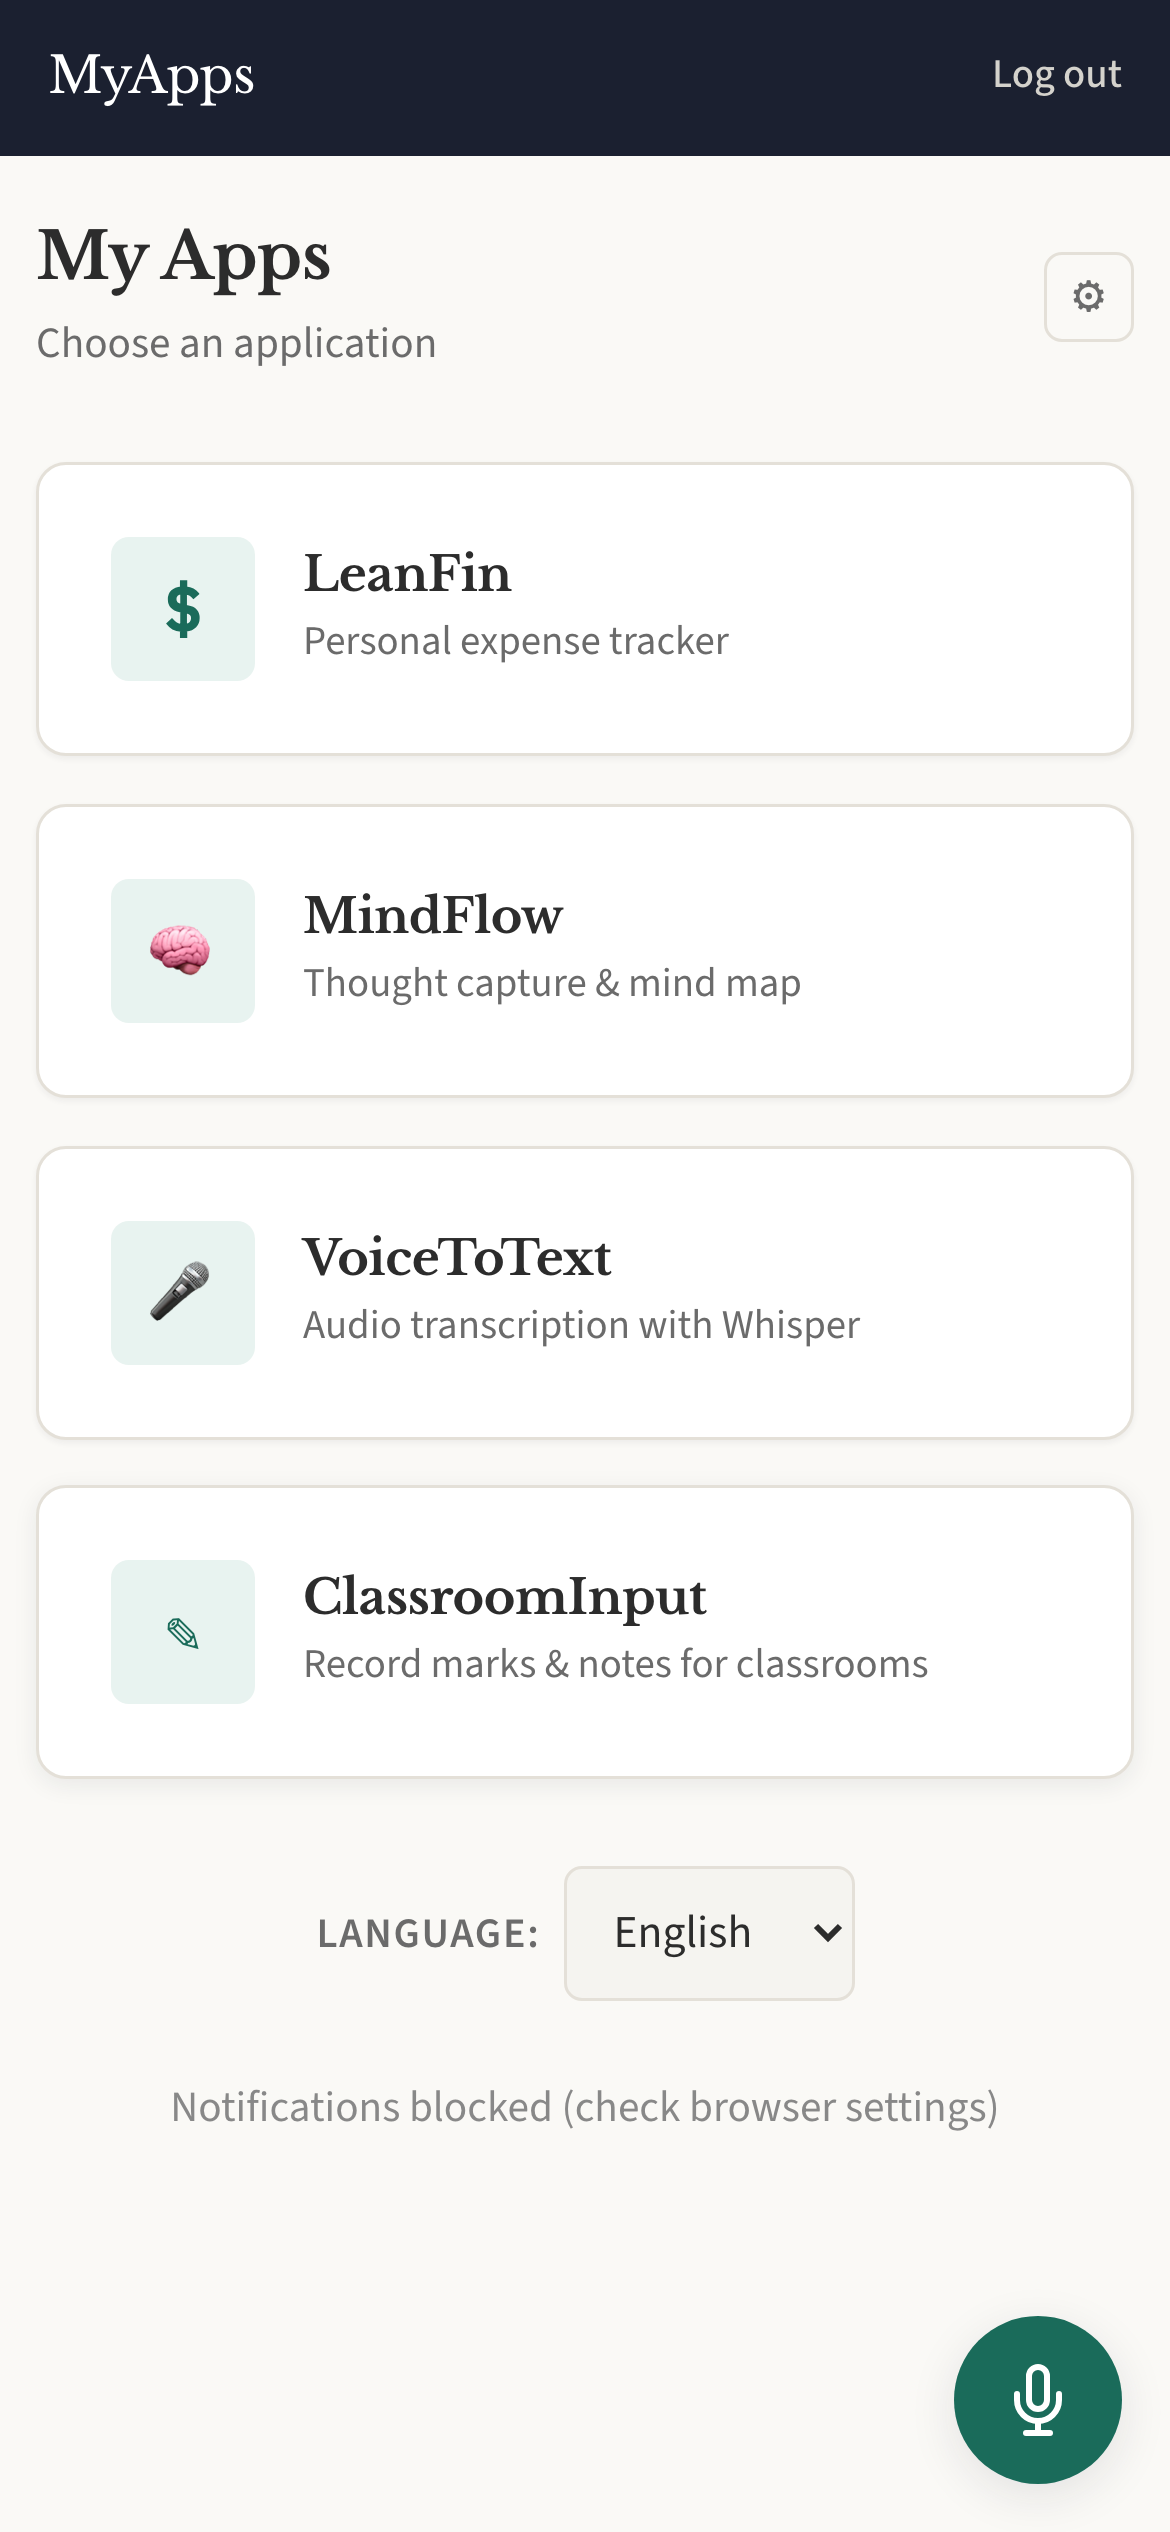
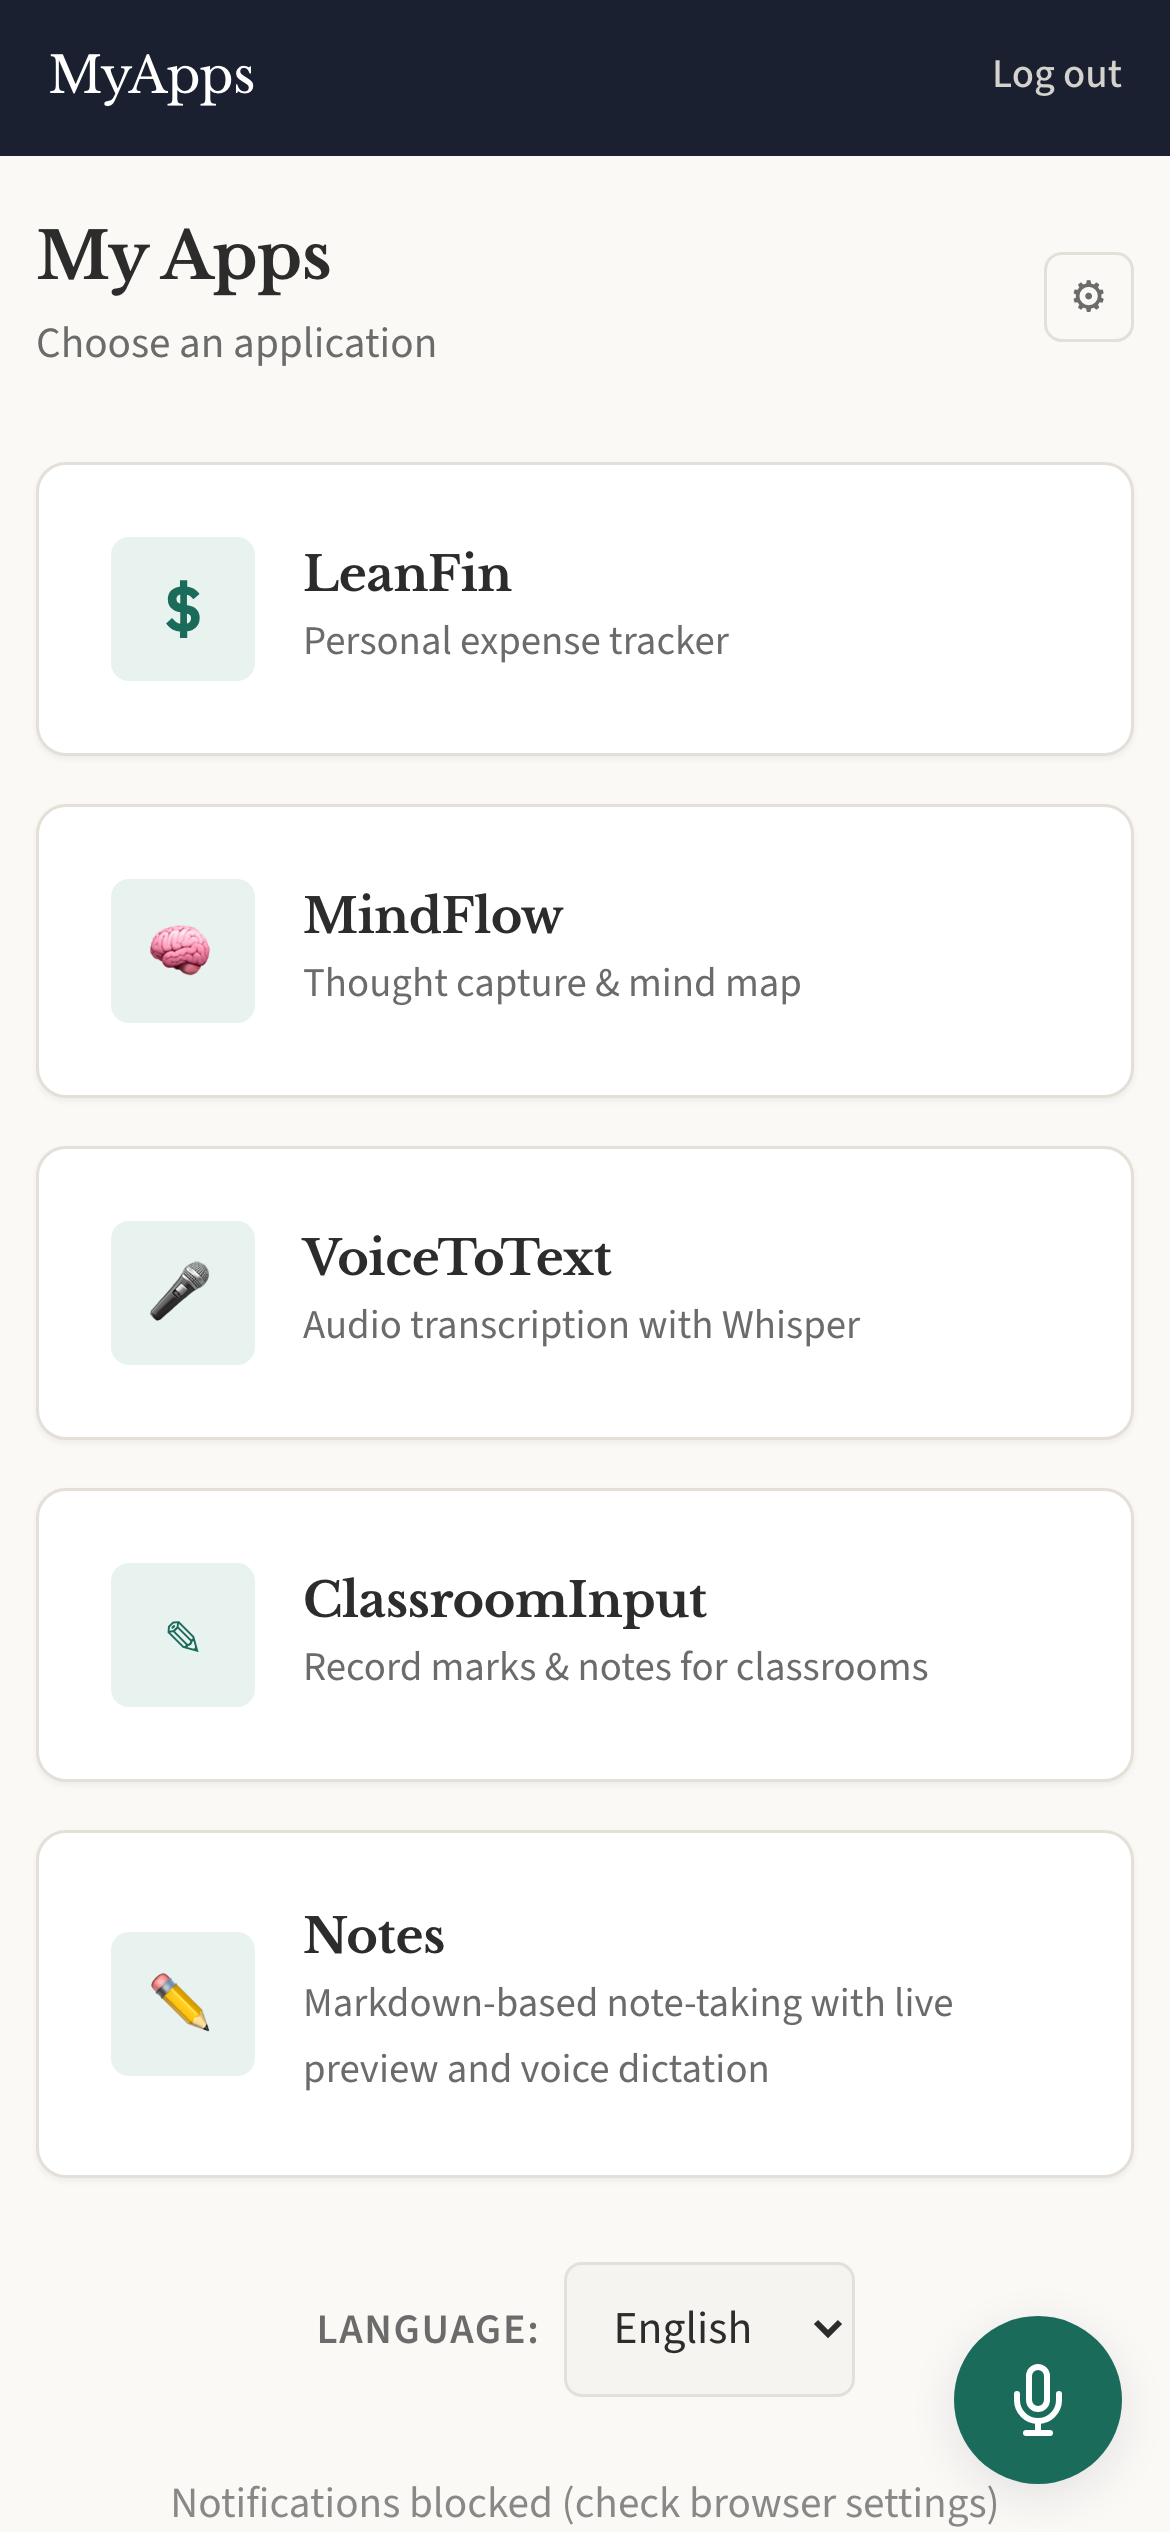
[FEAT-51] Add Notes screenshots to Playwright and auto-update finish-development workflow (#59)

diff --git a/scripts/screenshots.ts b/scripts/screenshots.ts
@@ -89,5 +89,17 @@ test.describe("README screenshots", () => {
 
     await page.goto(`${BASE_URL}/classroom/classrooms`);
     await snap(page, "classroom-classrooms");
+
+    // ── Notes ──
+    await page.goto(`${BASE_URL}/notes`);
+    await snap(page, "notes-list");
+
+    // Open the first note for editing (click the first note link).
+    const firstNote = page.locator('a[href^="/notes/"]').first();
+    if (await firstNote.isVisible()) {
+      await firstNote.click();
+      await page.waitForTimeout(800); // Wait for editor to initialize.
+      await snap(page, "notes-editor");
+    }
   });
 });

diff --git a/.claude/commands/finish-development.md b/.claude/commands/finish-development.md
@@ -35,9 +35,22 @@ git merge origin/main
 
 If there are merge conflicts, resolve them, then commit the merge. If the merge is clean, proceed.
 
-## 6. Frontend tests
+## 6. Frontend tests & screenshots
 
-If any commits on this branch (compared to `main`) touch frontend code (routes, handlers, HTML templates, or CSS classes used in assertions), run the **frontend-tester agent** (`.claude/agents/frontend-tester.md`) to generate or update integration tests for the changed routes. Commit any new or updated tests with message "Add/update frontend tests for [feature]". Include the co-author trailer. If no frontend code was changed, skip this step.
+If any commits on this branch (compared to `main`) touch frontend code (routes, handlers, HTML templates, or CSS classes used in assertions):
+
+1. **Integration tests**: Run the **frontend-tester agent** (`.claude/agents/frontend-tester.md`) to generate or update integration tests for the changed routes.
+
+2. **Screenshots**: Review `scripts/screenshots.ts` and check whether the Playwright script needs updating for the changed app(s):
+   - If a **new app** was added: add a new section to the Playwright script that navigates to the app's main pages and captures screenshots, following the existing pattern. Then add the corresponding `<img>` tags to the main `README.md` (under a new `### AppName` heading before the `---` separator) and to the app's own `crates/myapps-<app>/README.md`.
+   - If **existing pages changed significantly** (new pages, layout overhauls, removed pages): update the Playwright script accordingly (add/remove/rename `snap()` calls) and update any affected `<img>` tags in `README.md` and the app README.
+   - If the changes are minor (bug fixes, copy changes, small styling tweaks), the existing screenshots will be refreshed automatically when the script runs — no script changes needed.
+
+   After any script changes, run `make screenshots` to regenerate the screenshot PNGs. Verify the new/updated images look correct.
+
+3. **Commit**: Commit any new or updated tests, script changes, README updates, and regenerated screenshots with message "Add/update frontend tests and screenshots for [feature]". Include the co-author trailer.
+
+If no frontend code was changed, skip this step.
 
 ## 7. Run checks
 

diff --git a/crates/myapps-notes/README.md b/crates/myapps-notes/README.md
@@ -2,6 +2,11 @@
 
 Markdown-based note-taking with live preview and voice dictation.
 
+<p align="center">
+  <img src="../../docs/screenshots/notes-list.png" width="270" alt="Notes – List" />
+  <img src="../../docs/screenshots/notes-editor.png" width="270" alt="Notes – Editor" />
+</p>
+
 ## Features
 
 - Live Markdown WYSIWYG editing (headings, code blocks, lists, etc.)

diff --git a/README.md b/README.md
@@ -65,6 +65,13 @@ hide per-user.
   <img src="docs/screenshots/classroom-classrooms.png" width="270" alt="ClassroomInput – Classrooms" />
 </p>
 
+### Notes
+
+<p align="center">
+  <img src="docs/screenshots/notes-list.png" width="270" alt="Notes – List" />
+  <img src="docs/screenshots/notes-editor.png" width="270" alt="Notes – Editor" />
+</p>
+
 ---
 
 ## Tech stack
